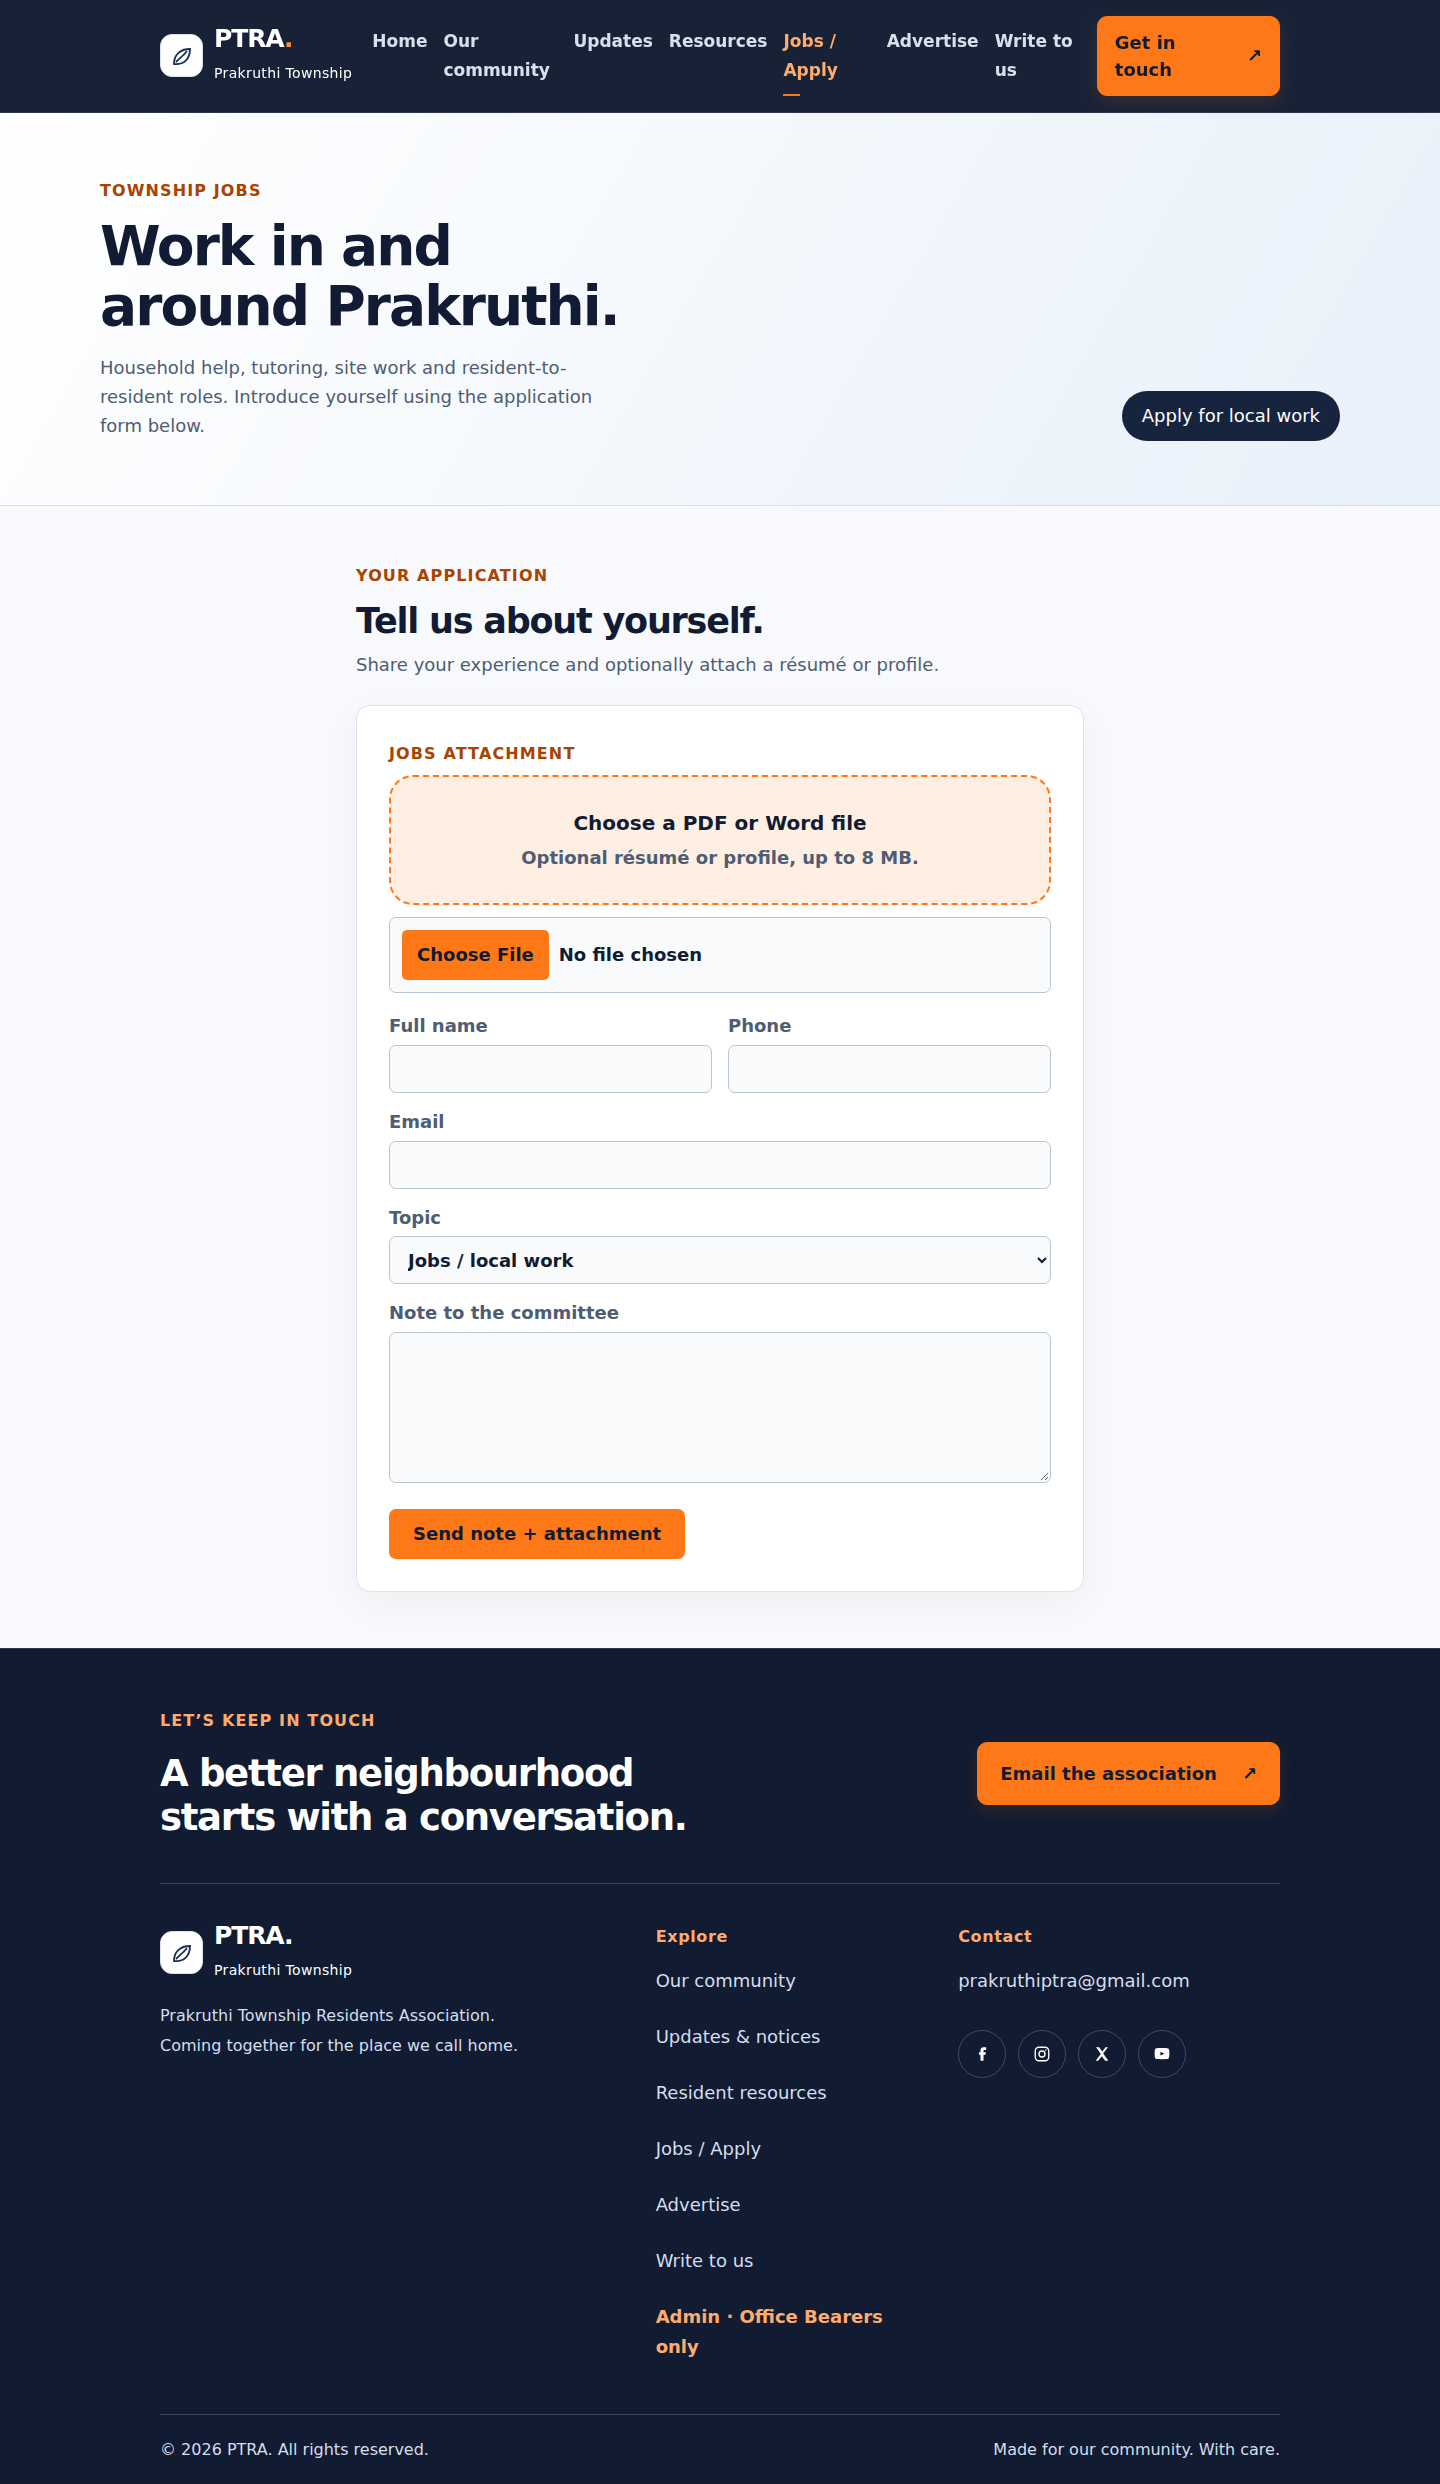
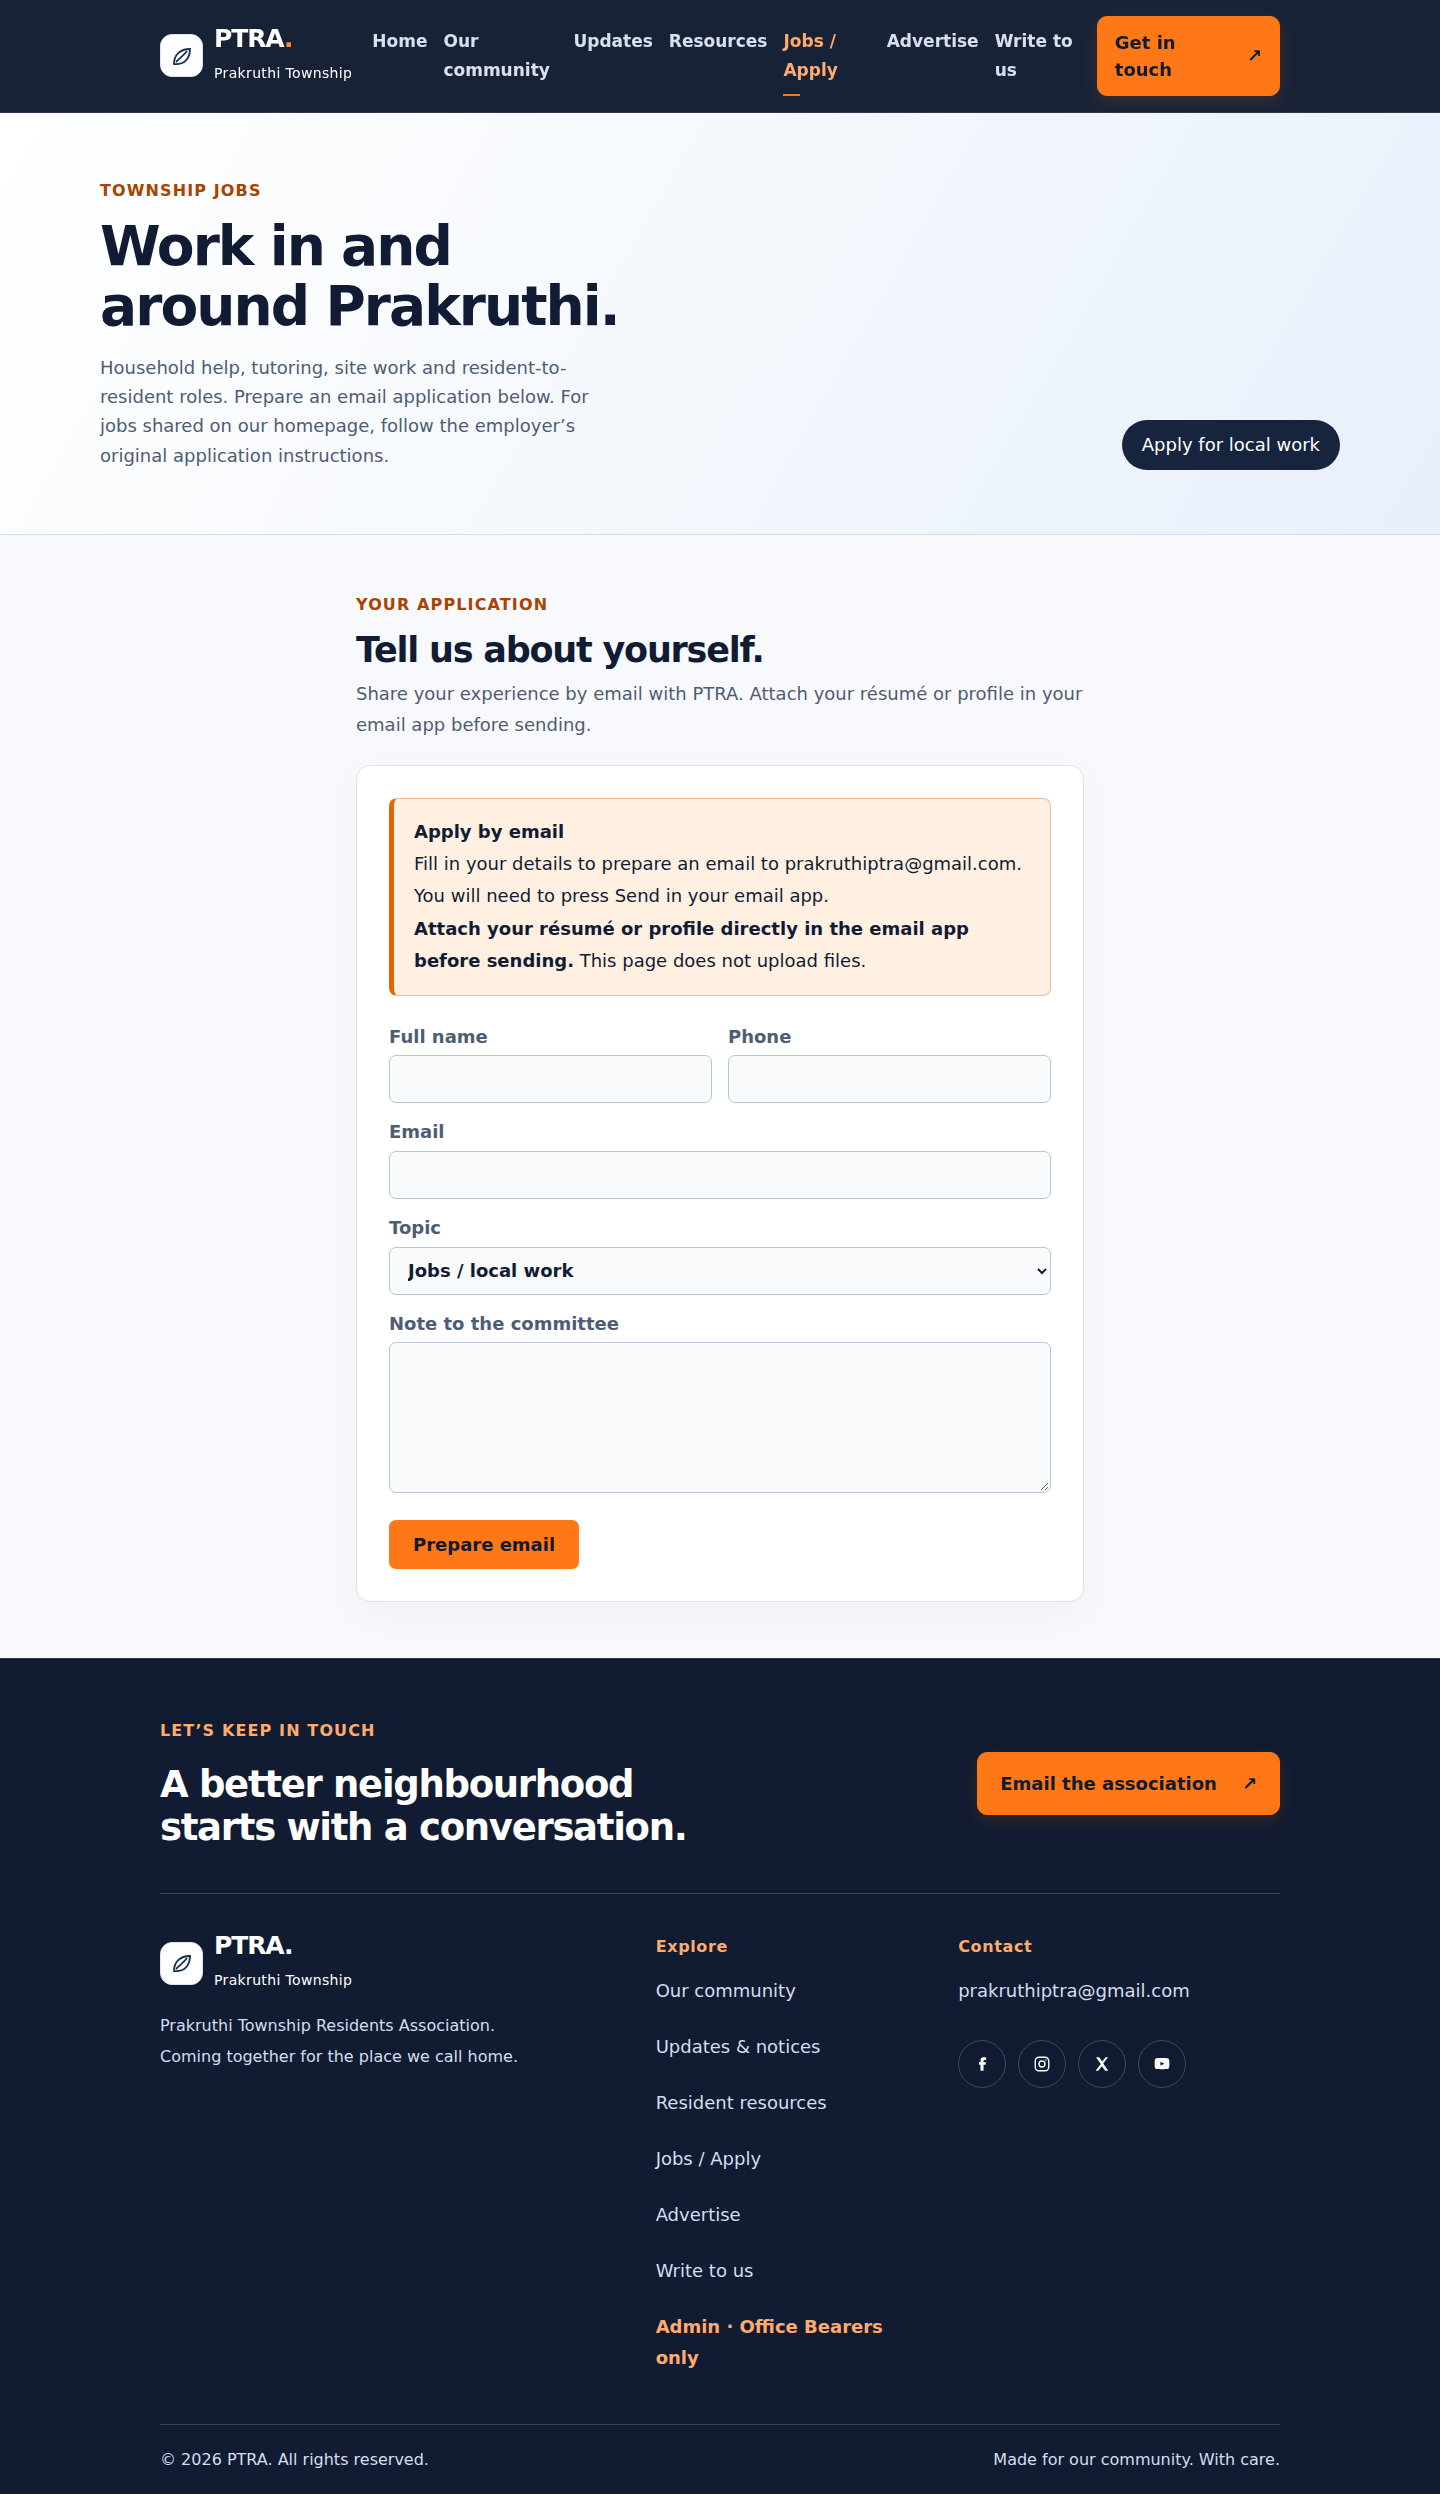
Add files via upload

diff --git a/src/components/ApplyForm.tsx b/src/components/ApplyForm.tsx
@@ -1,6 +1,7 @@
 "use client";
 
-import { useMemo, useState } from "react";
+import { useState } from "react";
+import { siteConfig } from "@/lib/site-config";
 
 const topics = [
   "Jobs / local work",
@@ -13,63 +14,22 @@ const topics = [
 ];
 
 export default function ApplyForm({ defaultTopic = "" }: { defaultTopic?: string }) {
-  const [status, setStatus] = useState("");
-  const [ok, setOk] = useState(false);
-  const [busy, setBusy] = useState(false);
   const [topic, setTopic] = useState(defaultTopic);
-  const [fileName, setFileName] = useState("");
-  const showFile = useMemo(() => topic === "Jobs / local work", [topic]);
+  const [draft, setDraft] = useState<{ subject: string; body: string; href: string } | null>(null);
+  const isJob = topic === "Jobs / local work";
 
-  async function onSubmit(e: React.FormEvent<HTMLFormElement>) {
+  function onSubmit(e: React.FormEvent<HTMLFormElement>) {
     e.preventDefault();
-    const form = e.currentTarget;
-    setBusy(true);
-    setStatus("");
-    setOk(false);
-    try {
-      const res = await fetch("/api/applications", { method: "POST", body: new FormData(form) });
-      const data = await res.json();
-      if (!res.ok) throw new Error(data.error || "Could not send.");
-      setOk(true);
-      setStatus(
-        topic === "Jobs / local work"
-          ? "Job application submitted successfully. The Office Bearers will review it."
-          : "Message sent successfully. The Office Bearers have received it for review."
-      );
-      form.reset();
-      setTopic(defaultTopic);
-      setFileName("");
-    } catch (err) {
-      setStatus(err instanceof Error ? err.message : "Could not send.");
-    } finally {
-      setBusy(false);
-    }
+    const data = new FormData(e.currentTarget);
+    const value = (key: string) => String(data.get(key) ?? "").trim();
+    const subject = `PTRA ${isJob ? "job application" : "message"}: ${topic} — ${value("fullName")}`;
+    const body = `Dear PTRA Office Bearers,\n\nName: ${value("fullName")}\nPhone: ${value("phone")}\nEmail: ${value("email")}\nTopic: ${topic}\n\n${value("note")}\n\nRegards,\n${value("fullName")}`;
+    setDraft({ subject, body, href: `mailto:${siteConfig.contact.email}?subject=${encodeURIComponent(subject)}&body=${encodeURIComponent(body)}` });
   }
 
   return (
-    <form onSubmit={onSubmit} className="workflow-form rounded-[28px] border border-line bg-white shadow-[0_24px_60px_-36px_rgba(20,32,26,0.55)] p-6 sm:p-8 space-y-5">
-      {showFile && (
-        <label className="block sm:col-span-2 cursor-pointer">
-          <span className="inline-flex items-center gap-2 label text-clay mb-2">
-            Jobs attachment
-
-          </span>
-          <span className="flex flex-col items-center justify-center gap-2 rounded-3xl border-2 border-dashed border-ochre bg-ochre/12 px-4 py-8 text-center hover:bg-ochre/18 transition-colors">
-            <span className="font-display text-xl text-moss">Choose a PDF or Word file</span>
-            <span className="text-sm text-moss-2">
-              {fileName ? `Selected · ${fileName}` : "Optional résumé or profile, up to 8 MB."}
-            </span>
-
-          </span>
-          <input
-            name="file"
-            type="file"
-            accept=".pdf,.doc,.docx,application/pdf"
-            className="mt-3"
-            onChange={(e) => setFileName(e.target.files?.[0]?.name ?? "")}
-          />
-        </label>
-      )}
+    <form onSubmit={onSubmit} onChange={() => setDraft(null)} className="workflow-form rounded-[28px] border border-line bg-white shadow-[0_24px_60px_-36px_rgba(20,32,26,0.55)] p-6 sm:p-8 space-y-5">
+      <div className="notice-banner"><strong>{isJob ? "Apply by email" : "Write to us by email"}</strong><p>Fill in your details to prepare an email to {siteConfig.contact.email}. You will need to press Send in your email app.</p>{isJob && <p><strong>Attach your résumé or profile directly in the email app before sending.</strong> This page does not upload files.</p>}</div>
 
       <div className="grid gap-4 sm:grid-cols-2">
         <label className="block text-sm text-moss-2">
@@ -107,24 +67,16 @@ export default function ApplyForm({ defaultTopic = "" }: { defaultTopic?: string
         </label>
       </div>
       <button
-        disabled={busy}
+        type="submit"
         className="inline-flex items-center px-6 py-3 rounded-full bg-moss text-sage text-sm font-medium hover:bg-pine disabled:opacity-60"
       >
-        {busy ? "Sending…" : showFile ? "Send note + attachment" : "Send to the association"}
+        Prepare email
       </button>
-      {status && (
-        <div
-          role={ok ? "status" : "alert"}
-          aria-live="polite"
-          className={ok ? "submission-message submission-success" : "submission-message submission-error"}
-        >
-          <span aria-hidden="true" className="submission-icon">{ok ? "✓" : "!"}</span>
-          <div>
-            <strong>{ok ? "Successfully submitted" : "Submission not sent"}</strong>
-            <p>{status}</p>
-          </div>
-        </div>
-      )}
+      {draft && <div className="email-draft-panel">
+        <div role="status" className="notice-banner"><strong>Email prepared — not sent yet.</strong><p>Open your email app below, review the draft{isJob ? ", attach your résumé if needed," : ""} and press Send.</p></div>
+        <a className="button" href={draft.href}>Open email app ↗</a>
+        <details className="mt-5"><summary className="cursor-pointer py-3 font-bold">No email app? Copy the details into Gmail or Outlook</summary><p className="mt-3">To: <strong>{siteConfig.contact.email}</strong></p><p className="my-3">Subject: {draft.subject}</p><label className="block">Email message<textarea readOnly value={draft.body} rows={9} className="w-full border border-line rounded-lg p-3 mt-2" onFocus={e => e.target.select()} /></label><p className="mt-3">The website cannot confirm email delivery. Check your email app’s Sent folder after sending.</p></details>
+      </div>}
     </form>
   );
 }

diff --git a/src/app/jobs/page.tsx b/src/app/jobs/page.tsx
@@ -20,7 +20,7 @@ export default function JobsPage() {
             </h1>
             <p className="mt-4 text-moss-2 max-w-lg leading-relaxed">
               Household help, tutoring, site work and resident-to-resident roles.
-              Introduce yourself using the application form below.
+              Prepare an email application below. For jobs shared on our homepage, follow the employer’s original application instructions.
             </p>
           </div>
           <Link
@@ -36,7 +36,7 @@ export default function JobsPage() {
         <section id="apply">
           <p className="label text-clay mb-3">YOUR APPLICATION</p>
           <h2 className="font-display text-3xl text-moss mb-2">Tell us about yourself.</h2>
-          <p className="text-moss-2 mb-6">Share your experience and optionally attach a résumé or profile.</p>
+          <p className="text-moss-2 mb-6">Share your experience by email with PTRA. Attach your résumé or profile in your email app before sending.</p>
           <ApplyForm defaultTopic="Jobs / local work" />
         </section>
       </section>

diff --git a/src/app/globals.css b/src/app/globals.css
@@ -373,6 +373,8 @@ a:focus-visible,button:focus-visible,input:focus-visible,select:focus-visible,te
 
 /* October reference theme: midnight navy, vivid orange, white cards. */
 .job-postings-list { display: grid; gap: 24px; }
+.email-draft-panel { overflow-wrap: anywhere; }
+.email-draft-panel .button { max-width: 100%; }
 .advertise-home { margin-block: 38px 10px; }
 .advertise-home-panel { display: grid; grid-template-columns: minmax(0,1.3fr) minmax(0,1fr); align-items: center; gap: 36px; padding: 36px; border-radius: 18px; background: #17243e; color: white; border-top: 5px solid #ff7817; }
 .advertise-home-panel .eyebrow { color: #ffab6e; margin-bottom: 10px; }

diff --git a/src/app/apply/page.tsx b/src/app/apply/page.tsx
@@ -15,7 +15,7 @@ export default function ApplyPage() {
         </h1>
         <p className="mt-4 max-w-xl text-moss-2 leading-relaxed">
           Introductions, vendor notes, housing or a question for the committee.
-          Your message is submitted privately for committee review. Only approved listings are published.
+          Prepare an email to the PTRA Office Bearers, then send it from your email app. Preparing a draft does not submit or publish your message.
         </p>
         <div className="mt-10">
           <ApplyForm />

diff --git a/src/content/posts/how-to-raise-a-township-maintenance-note.md b/src/content/posts/how-to-raise-a-township-maintenance-note.md
@@ -1,15 +1,15 @@
 ---
 title: "How to send a maintenance note to the committee"
 date: "2026-09-18"
-excerpt: "Streetlight, leak, waste pile or gate issue — use Write to us. It is stored in the association Drive folder, not published on the site."
+excerpt: "Streetlight, leak, waste pile or gate issue — prepare an email to PTRA through Write to us."
 ---
 
 Use **Write to us** for anything that is not an emergency (those still go to 1533 / 1916 / 1912 / 101 / 108).
 
 1. Open [Write to us](/apply).
 2. Pick a topic and describe the block, landmark and when you noticed it.
-3. Submit. The note is saved in the committee’s **Google Drive folder**. It is not emailed to prakruthiptra@gmail.com automatically.
+3. Select **Prepare email**, then **Open email app**. Review the draft and press **Send** to email **prakruthiptra@gmail.com**.
 
-Office-bearers read the folder (or `/admin` after signing in). If the matter is urgent after dark, also tell main-gate security.
+Office Bearers receive the message in the PTRA mailbox. Preparing a draft does not send the message or save it in the website Admin inbox. If no email app opens, expand the copy-details option and paste the message into your email service.
 
-Do not attach a file on this form. Files are accepted only on the **Jobs** path.
+Attach any relevant photo or document in your email app before sending. The website does not upload files in this mode.

diff --git a/README.md b/README.md
@@ -4,6 +4,10 @@ Navy, orange and white Next.js website for Prakruthi Township Residents Associat
 
 ## October 2026 reference-theme update
 
+### Current submission mode: email
+
+Jobs and Write to Us now prepare email drafts addressed to `prakruthiptra@gmail.com`. Residents click Prepare email, then Open email app, attach any résumé in their email client and press Send. A copyable message fallback is available for webmail. Preparing a draft does not send it, and the website does not claim delivery. Neither page uploads attachments or calls the Drive submission API. Emails arrive in the PTRA mailbox, not the website Admin inbox. Existing Drive backend code remains for a future configured integration; personal-Drive OAuth is not implemented. The earlier submission-flow descriptions below describe the previous edition.
+
 ### Add or remove homepage job postings
 
 Edit `src/lib/job-postings.ts`. Copy an existing object inside the `jobPostings` array, change its unique `id`, `title`, `category`, `source`, `description`, HTTPS `url` and `buttonLabel`, and leave `active: true`. All active entries appear as cards on the homepage. To hide a closed role, set `active: false`. Save, test locally and redeploy to Vercel. These are code-managed postings; the Admin screen does not edit this list. No Google Drive is needed.
